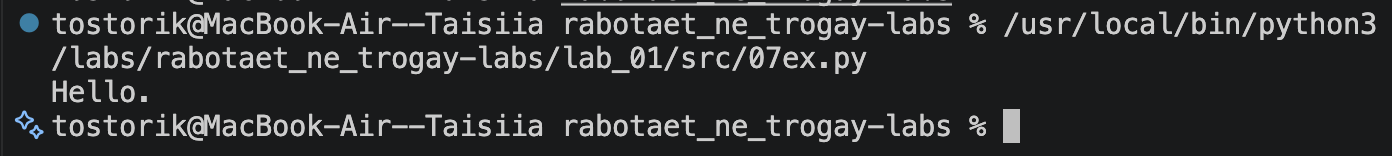
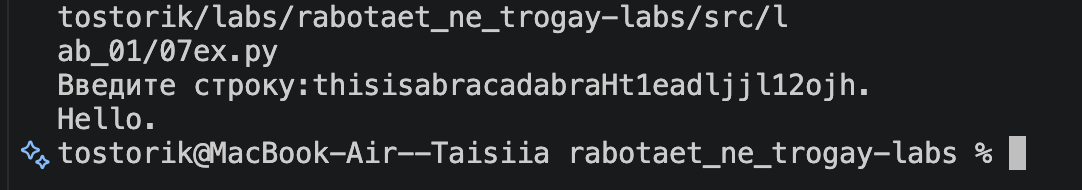
new photos

Changed region(s): [[0.0, 0.0, 1.0, 0.6923], [0.0, 0.6923, 0.9455, 0.9231], [0.122, 0.0, 0.1525, 0.0256]]

diff --git a/src/lab02/arrays1.py b/src/lab02/arrays1.py
@@ -3,12 +3,12 @@ import ast
 a1 = input("Введите: ")
 a2 = ast.literal_eval(a1)
 
-"""def frmt(x):
-    return int(x) if x.is_integer() else x"""
+def frmt(x):
+    return int(x) if x.is_integer() else x
 
 def min_max(n):
     if n:
-        return (min(n)), (max(n))
+        return frmt(min(n)), frmt(max(n))
     return 'ValueError'
     
 print(min_max(a2))

diff --git a/src/lab02/arrays3.py b/src/lab02/arrays3.py
@@ -14,6 +14,6 @@ def flatten(mat):
 try:
     print(flatten(mat))
 except TypeError as e:
-    print(f"TypeError: {e}")
+    print(f"TypeError: строка не строка строк матрицы")
     
 

diff --git a/src/lab02/arrays.py b/src/lab02/arrays.py
@@ -36,6 +36,7 @@ flatten
 {flatten([[1, 2], [3, 4]])}
 {flatten([[1, 2], (3, 4, 5)])}
 {flatten([[1], [], [2, 3]])}
-{flatten([[1, 2], "ab"])}
 ''')
 
+'''{flatten([[1, 2], "ab"])}'''
+'''{min_max([])}'''
